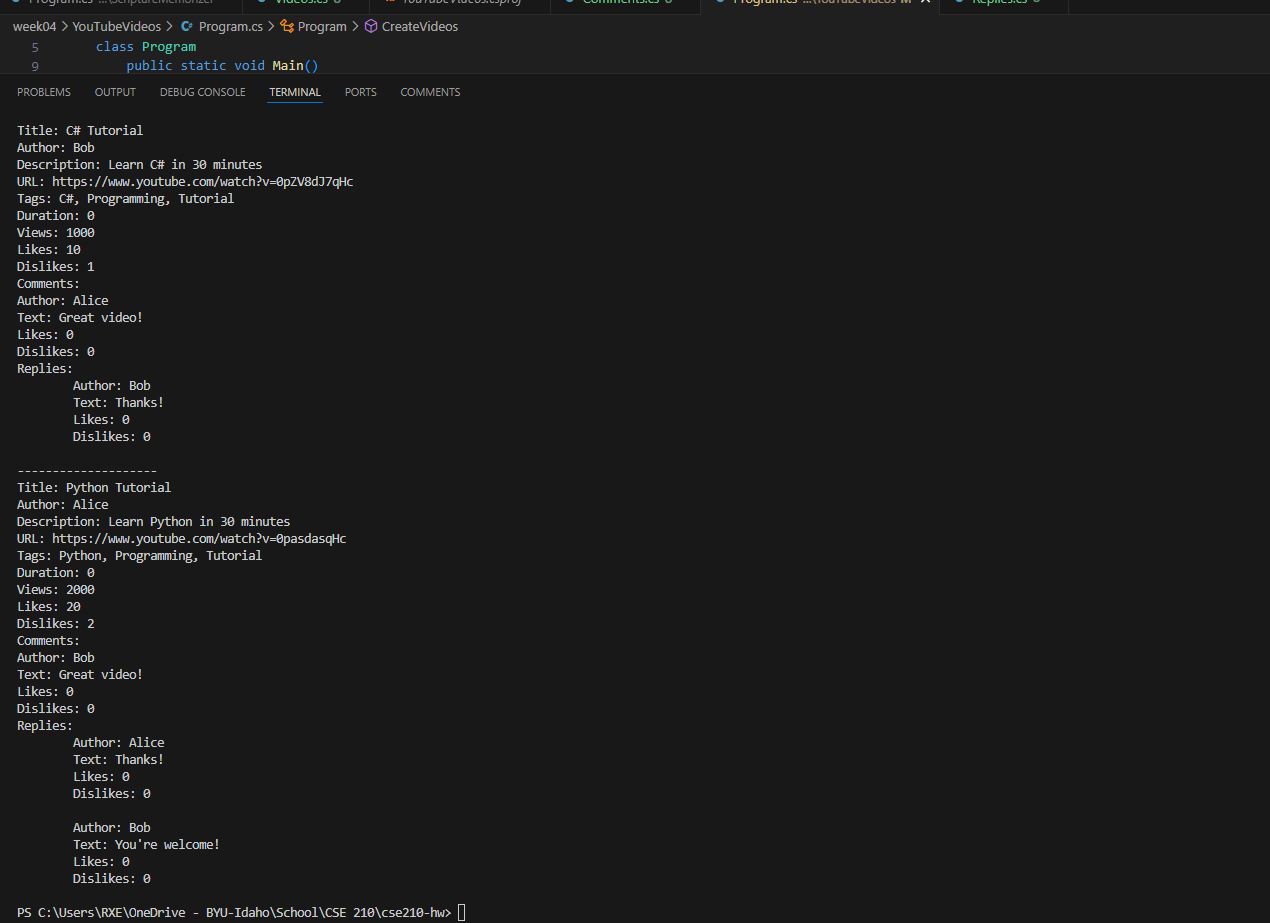
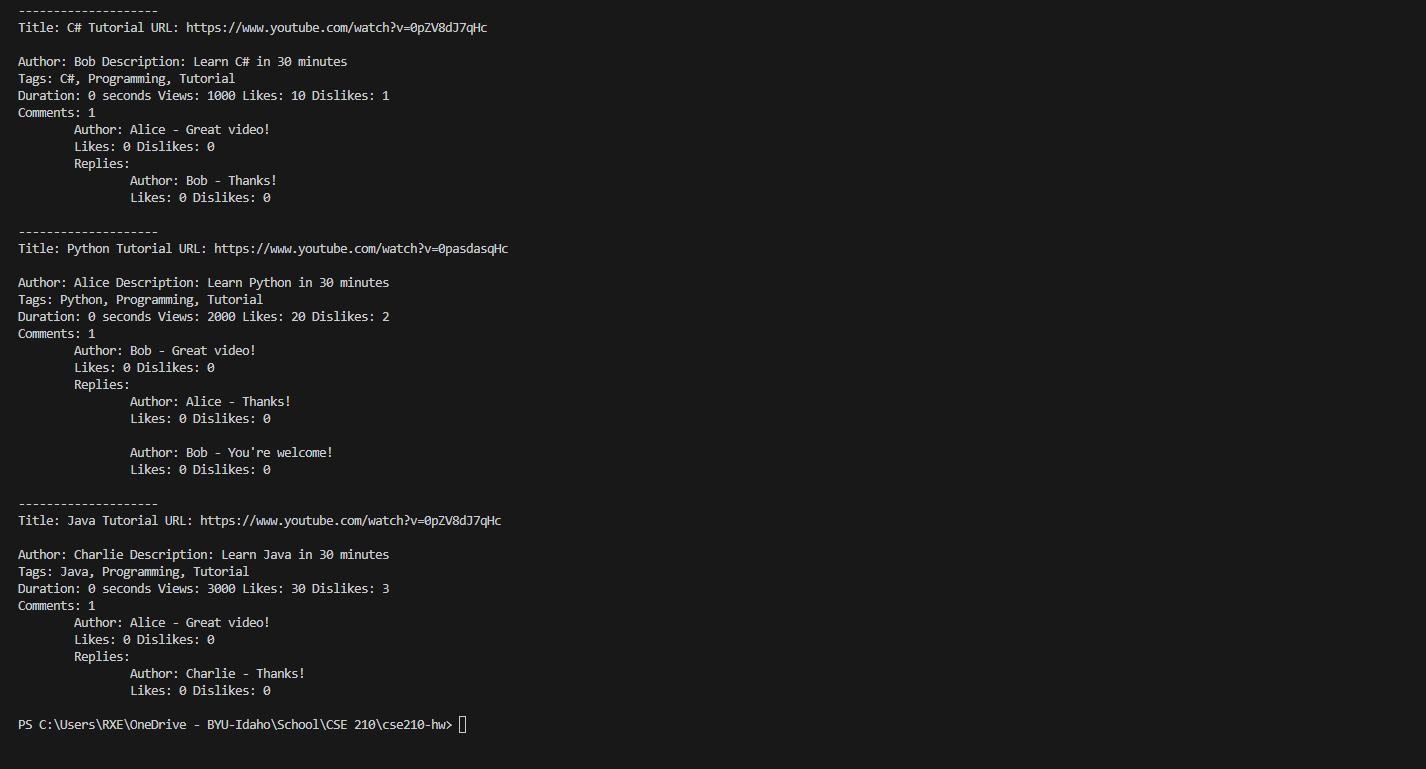
Revised Week 4

Changed region(s): [[0.0, 0.0, 0.3992, 0.9987]]

diff --git a/week04/YouTubeVideos/Videos.cs b/week04/YouTubeVideos/Videos.cs
@@ -41,16 +41,11 @@ namespace YouTubeVideos {
         }
         public void GetDisplayText()
         {
-            Console.WriteLine($"Title: {Title}");
-            Console.WriteLine($"Author: {Author}");
-            Console.WriteLine($"Description: {Description}");
-            Console.WriteLine($"URL: {URL}");
+            Console.WriteLine($"Title: {Title} URL: {URL}\n");
+            Console.WriteLine($"Author: {Author} Description: {Description}");
             Console.WriteLine($"Tags: {string.Join(", ", Tags)}");
-            Console.WriteLine($"Duration: {Duration}");
-            Console.WriteLine($"Views: {Views}");
-            Console.WriteLine($"Likes: {Likes}");
-            Console.WriteLine($"Dislikes: {Dislikes}");
-            Console.WriteLine("Comments:");
+            Console.WriteLine($"Duration: {Duration} seconds Views: {Views} Likes: {Likes} Dislikes: {Dislikes}");
+            Console.WriteLine($"Comments: {Comments.Count}");
             foreach (Comments comment in Comments)
             {
                 comment.GetDisplayText();

diff --git a/week04/YouTubeVideos/Comments.cs b/week04/YouTubeVideos/Comments.cs
@@ -33,17 +33,13 @@ namespace YouTubeVideos
         }
         public void GetDisplayText()
         {
-            Console.WriteLine($"Author: {Author}");
-            Console.WriteLine($"Text: {Text}");
-            Console.WriteLine($"Likes: {Likes}");
-            Console.WriteLine($"Dislikes: {Dislikes}");
-            Console.WriteLine("Replies:");
+            Console.WriteLine($"\tAuthor: {Author} - {Text}");
+            Console.WriteLine($"\tLikes: {Likes} Dislikes: {Dislikes}");
+            Console.WriteLine("\tReplies:");
             foreach (Replies reply in _Replies)
             {
-                Console.WriteLine($"\tAuthor: {reply.Author}");
-                Console.WriteLine($"\tText: {reply.Text}");
-                Console.WriteLine($"\tLikes: {reply.Likes}");
-                Console.WriteLine($"\tDislikes: {reply.Dislikes} \n");
+                Console.WriteLine($"\t\tAuthor: {reply.Author} - {reply.Text}");
+                Console.WriteLine($"\t\tLikes: {reply.Likes} Dislikes: {reply.Dislikes} \n");
             }
         }
     }

diff --git a/week04/YouTubeVideos/Program.cs b/week04/YouTubeVideos/Program.cs
@@ -33,6 +33,13 @@ namespace YouTubeVideos
             comment2.AddReply(reply3);
             video2.AddComment(comment2);
             _videos.Add(video2);
+
+            Videos video3 = new Videos("Java Tutorial", "Charlie", "Learn Java in 30 minutes", "https://www.youtube.com/watch?v=0pZV8dJ7qHc", new string[] { "Java", "Programming", "Tutorial" }, 3000, 30, 3);
+            Comments comment3 = new Comments("Alice", "Great video!");
+            Replies reply4 = new Replies("Charlie", "Thanks!");
+            comment3.AddReply(reply4);
+            video3.AddComment(comment3);
+            _videos.Add(video3);
         }
     }
 }
